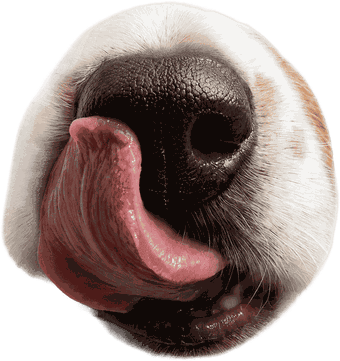
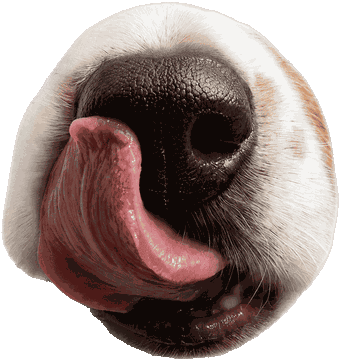
Owner-tuned decor positions and remove semi-transparent edge on nose
Applied owner's second round of tuning-tool coordinates. Also hard-
thresholded the nose-front cutout's feathered alpha edge (previously
had a ~12% semi-transparent halo letting the background show through
the fur), so it reads as solid rather than faded.

Claude-Session: https://claude.ai/code/session_01652tpqWFYzvc9VSPyCSj5Y

diff --git a/client/src/index.css b/client/src/index.css
@@ -503,7 +503,7 @@
     /* Заход за карточку и позиции пропов подобраны владельцем визуально
        (интерактивная примерка на реальных ассетах) — не «красивые» числа,
        менять только по новой примерке, а не из соображений симметрии. */
-    .quiz-decor--left  { left:  calc(21px - var(--decor-w)); }
+    .quiz-decor--left  { left:  calc(23px - var(--decor-w)); }
     .quiz-decor--right { right: calc(26px - var(--decor-w)); }
     /* Тень карточки на сцену: отклонение от MASTER (контентная карточка обычно
        без постоянной тени) — здесь карточка средний слой физической сцены,
@@ -519,7 +519,7 @@
         0 20px 40px -12px rgb(22 35 60 / 0.20);
     }
     .quiz-prop--paw  { left: -41px; bottom: -11px; width: 63px; }
-    .quiz-prop--nose { right: -117px; bottom: 56px; width: 140px; }
+    .quiz-prop--nose { right: -120px; bottom: 53px; width: 147px; }
   }
 
   /* Гард от двойного подъёма: секция либо в <Reveal>, либо со своим
